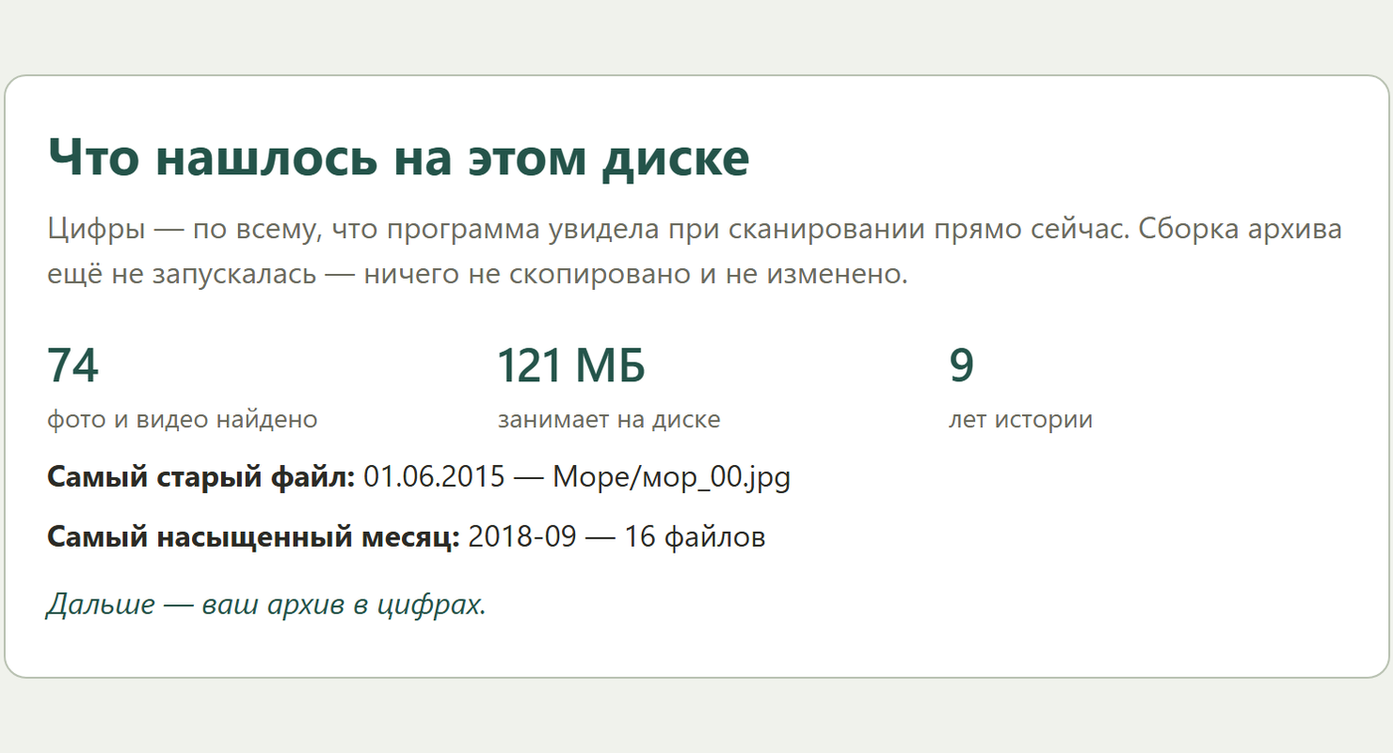
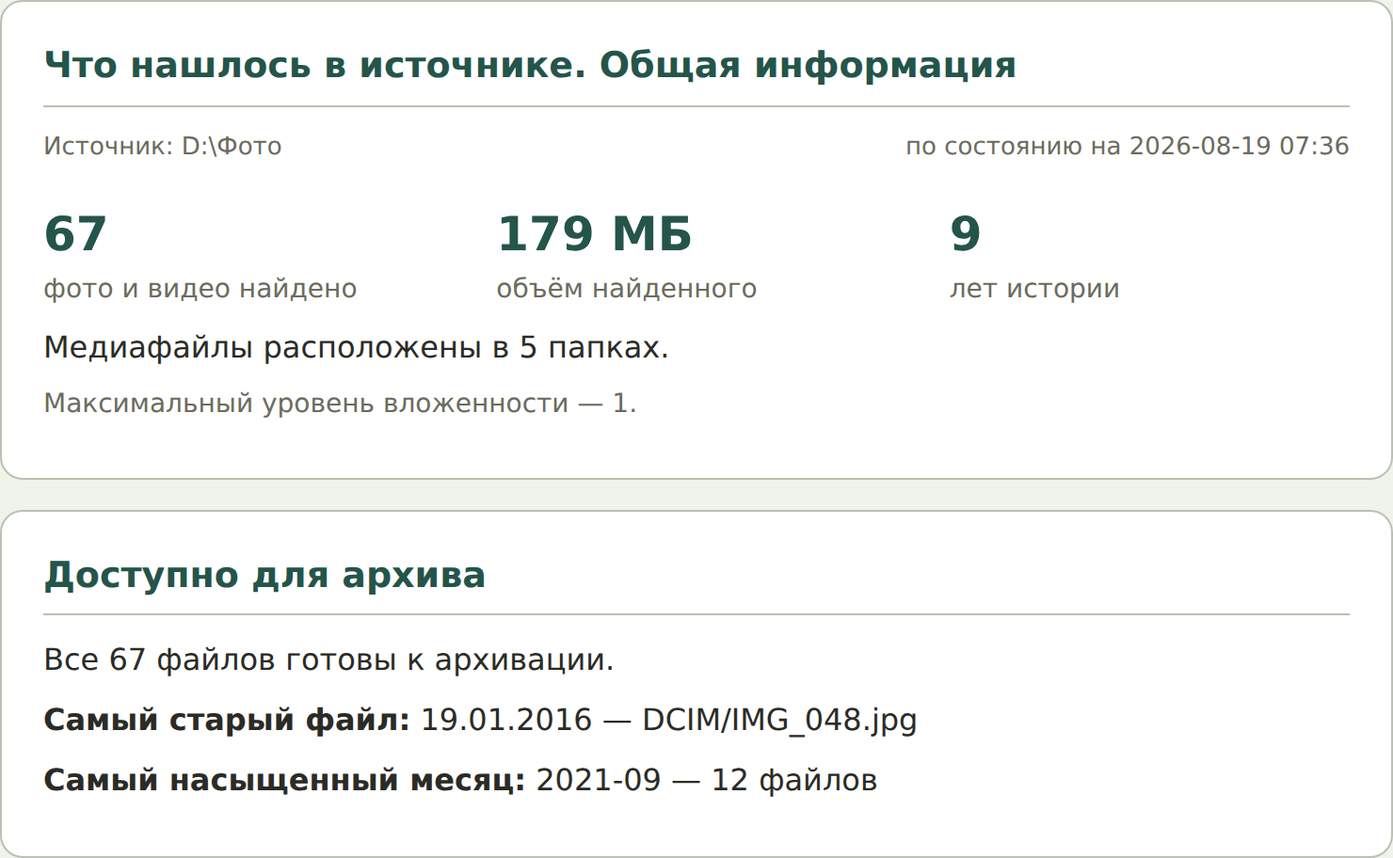
Лендинг: пересобрать пример отчёта, поправить alt-текст и версию на скриншоте меню
Три подтверждённых расхождения с реальным продуктом (найдены докс-ревью перед
релизом, сверка лендинга с исходниками):

- interface.png: баннер "версия 0.2.0" (устарел, сейчас 0.4.2) заменён точечно
  пиксель-в-пиксель тем же шрифтом (переиспользованы глифы из самого же
  изображения) -- само меню на скриншоте уже было верным (4 пункта).
- index.html: alt-текст того же скриншота всё ещё описывал меню из трёх пунктов
  без "Паспорт архива" -- обновлён под реальные 4 пункта.
- report_sanitized.html/report-preview.png (от 2026-08-04) не отражали редизайн
  отчёта 11-18.08 -- пересобраны на актуальном коде: синтетический источник
  (67 файлов, exiftool-теги) прогнан через реальный `photosort_win.py analyze
  --source`, HTML санитизирован (убран локальный путь), превью снято headless
  Chromium. Мимоходом найден и обойдён в демо-данных реальный баг report.py
  (обрезка длинных подписей камер в _svg_hbar_chart() режет с начала строки,
  не с конца -- "NIKON CORPORATION NIKON D750" вылезает за левый край SVG) --
  не исправлен в этом коммите, отдельная находка для report.py.

Claude-Session: https://claude.ai/code/session_01WYHxtTMAgwakTg4wbncGSk

diff --git a/report_sanitized.html b/report_sanitized.html
@@ -22,8 +22,25 @@ body {
 .card { background: #fff; border: 1px solid var(--line); border-radius: 12px; padding: 20px 22px; margin-bottom: 16px; overflow-wrap: anywhere; }
 h1 { color: var(--accent); font-size: 28px; margin: 0 0 6px; }
 h2 { color: var(--accent); font-size: 19px; margin: 0 0 12px; border-bottom: 1px solid var(--line); padding-bottom: 6px; }
+/* Речь пользователя, 2026-08-15: явная приглушённая пометка в заголовках диаграмм, которые
+   технически не могут показать RAW (напр. "(без учёта RAW)") -- 14px, тот же пол, что и
+   .muted/.stat .label ниже (Раздел 7 приёмочного чек-листа уже установил 14px как минимум
+   для аудитории 45-70 лет, мельче не делаем даже здесь). font-weight normal -- отличает её
+   от жирного по умолчанию текста h2, не боремся с ним за внимание. */
+.h2-note { color: var(--muted); font-size: 14px; font-weight: 400; }
 p { margin: 8px 0; }
 .subtitle { color: var(--muted); margin: 0 0 18px; }
+/* Речь пользователя, 2026-08-09: путь(и) SOURCE/TARGET + "по состоянию на ДАТА" -- отдельной
+   строкой ПОД заголовком, не приклеены в текст <h1> (раньше длинная дата в самом заголовке
+   визуально читалась как "увеличенный шрифт" -- по факту шрифт был тем же 28px, просто текст
+   длиннее). Меньше субтитра (13px против обычных 14px .subtitle) -- вспомогательная мета-
+   информация, не основной текст карточки. */
+.report-meta {
+  display: flex; justify-content: space-between; align-items: flex-start; flex-wrap: wrap;
+  gap: 4px 16px; color: var(--muted); font-size: 13px; margin: 0 0 18px; overflow-wrap: anywhere;
+}
+.report-meta-paths { min-width: 0; }
+.report-meta-date { white-space: nowrap; flex-shrink: 0; }
 .stat-row { display: flex; flex-wrap: wrap; gap: 18px 28px; margin-bottom: 6px; }
 .stat { flex: 1 1 140px; min-width: 130px; }
 .stat .value { font-size: 25px; font-weight: 600; color: var(--accent); }
@@ -43,14 +60,23 @@ p { margin: 8px 0; }
 .grid-2, .grid-3 { display: grid; gap: 16px; margin-bottom: 20px; }
 .grid-2 { grid-template-columns: 1fr 1fr; }
 .grid-3 { grid-template-columns: repeat(auto-fit, minmax(220px, 1fr)); }
-.grid-2 .card, .grid-3 .card { margin-bottom: 0; padding: 18px 20px; }
-.grid-2 h2, .grid-3 h2 { font-size: 16px; margin-bottom: 10px; padding-bottom: 6px; }
+/* Речь пользователя, 2026-08-11: отдельный класс ТОЛЬКО для ряда "Топ форматов" (1-3 карточки
+   в зависимости от того, что реально найдено -- фото/видео/RAW) -- .grid-3 общий класс делят с
+   рядом "Тип медиа"/"Объём по категориям"/"Надёжность дат" (ВСЕГДА ровно 3 карточки), тем
+   двум классам нужно разное поведение. Ровно 2 колонки НА ВСЮ ширину ряда (не auto-fit с
+   потолком -- та версия то раздувала карточки почти вдвое при 2 против 3, то наоборот ужимала
+   -- см. историю правок этого класса) -- третья карточка, если есть, переносится на новую
+   строку сама (стандартное поведение grid при фиксированном числе колонок). */
+.grid-3-formats { display: grid; gap: 16px; margin-bottom: 20px;
+                    grid-template-columns: repeat(2, 1fr); }
+.grid-2 .card, .grid-3 .card, .grid-3-formats .card { margin-bottom: 0; padding: 18px 20px; }
+.grid-2 h2, .grid-3 h2, .grid-3-formats h2 { font-size: 16px; margin-bottom: 10px; padding-bottom: 6px; }
 /* Заголовки разной длины ("Тип медиа" — 1 строка, "Итог решений программы" — 2) иначе
    переносятся по-разному и сдвигают сами диаграммы вниз вразнобой — фикс. высота под 2
    строки (line-height 1.5 * font-size 16px) держит диаграммы на одном уровне независимо
    от того, влез заголовок в 1 строку или в 2. */
-.grid-3 h2 { min-height: 3em; }
-.grid-2 .chart-block, .grid-3 .chart-block { gap: 14px; }
+.grid-3 h2, .grid-3-formats h2 { min-height: 3em; }
+.grid-2 .chart-block, .grid-3 .chart-block, .grid-3-formats .chart-block { gap: 14px; }
 .grid-2 .legend, .grid-3 .legend { min-width: 0; }
 @media (max-width: 640px) { .grid-2 { grid-template-columns: 1fr; } }
 .checklist { list-style: none; padding: 0; margin: 0; }
@@ -69,6 +95,19 @@ p { margin: 8px 0; }
 .checklist li.expand > details[open] > summary::before { content: "▾ "; }
 .checklist .nested { margin: 0 0 10px; }
 .checklist .nested li { padding: 8px 0 8px 18px; }
+/* "Полная сверка дублей" (2026-08-08, альбомный редизайн): таблица вместо .checklist для
+   exact-dup/near-dup секций -- тот же .card-контейнер, свой минимальный набор правил. */
+.dedup-table { width: 100%; border-collapse: collapse; font-size: 14px; overflow-wrap: anywhere; }
+.dedup-table th { text-align: left; padding: 8px 10px; border-bottom: 2px solid var(--line); color: var(--muted); }
+.dedup-table td { padding: 8px 10px; border-bottom: 1px solid var(--line); vertical-align: top; }
+.dedup-table tr:last-child td { border-bottom: none; }
+.dedup-table + details { margin-top: 10px; }
+.dedup-table + details > summary {
+  padding: 6px 0; color: var(--accent); font-weight: 600; cursor: pointer; list-style: none;
+}
+.dedup-table + details > summary::-webkit-details-marker { display: none; }
+.dedup-table + details > summary::before { content: "▸ "; }
+.dedup-table + details[open] > summary::before { content: "▾ "; }
 .bridge { color: var(--accent); font-style: italic; margin-top: 12px; }
 .muted { color: var(--muted); font-size: 14px; }
 /* Раздел 7 приёмочного чек-листа: свой цвет #8a8a7c на --bg давал контраст 3.1:1, не
@@ -76,6 +115,14 @@ p { margin: 8px 0; }
    -- заменён на var(--muted), тот же цвет, что и остальной вспомогательный текст (4.79:1 на
    --bg / 5.4:1 на белом фоне карточек -- оба проходят). */
 .footer { text-align: center; color: var(--muted); font-size: 13px; margin: 16px 0 24px; }
+.report-brand {
+  display: flex; align-items: center; justify-content: space-between; flex-wrap: wrap;
+  gap: 6px 16px; margin: 0 0 18px;
+}
+.report-brand-logo { display: block; line-height: 0; }
+.report-brand-logo svg { display: block; height: 28px; width: auto; }
+.report-brand-url { color: var(--muted); font-size: 14px; text-decoration: none; }
+.report-brand-url:hover { text-decoration: underline; }
 /* 4.1/4.3 (PROMPT_report_marketing.md): баннер доверия -- одна строка, не карточка, чтобы не
    раздувать первый экран; чек-лист рядом -- компактный, с нейтральными зелёными отметками. */
 .trust-banner { font-size: 17px; font-weight: 600; color: var(--accent); margin: 4px 0 8px; }
@@ -131,13 +178,24 @@ p { margin: 8px 0; }
   border: 2px solid var(--accent2); border-radius: 8px;
   padding: 10px 16px; margin: 0 0 16px;
 }
+/* Раздел 1 "Что скопировано" (PROMPT_report_run_redesign.md, Промпт 1/3): кнопка
+   "Детализированный отчёт" -- нет готового .btn-класса в отчёте (все прежние действия --
+   обычные <a>, см. _render_cta_block()), кнопка добавлена намеренно НЕактивной (детализация
+   -- отдельная будущая задача, эта заглушка её не подразумевает как "скоро"). */
+.btn {
+  display: inline-block; padding: 10px 18px; border-radius: 8px; border: none;
+  background: var(--accent); color: #fff; font-size: 14px; font-weight: 600;
+  font-family: inherit; cursor: pointer;
+}
+.btn[disabled] { background: var(--line); color: var(--muted); cursor: not-allowed; }
 @media print { body { background: #fff; } .card { break-inside: avoid; } }
 </style>
 </head>
 <body>
 <div class="sheet">
-<p class="trust-banner">Оригиналы не изменены и не удалены — программа работает только с копиями.</p><ul class="trust-list"><li>Файлы не удалялись.</li><li>Оригиналы сохранены на своих местах.</li><li>Реальных изменений на диске нет — это предпросмотр.</li></ul><div class="card"><h1>Что нашлось на этом диске</h1><p class="subtitle">Цифры — по всему, что программа увидела при сканировании прямо сейчас. Сборка архива ещё не запускалась — ничего не скопировано и не изменено.</p><div class="stat-row"><div class="stat"><div class="value">74</div><div class="label">фото и видео найдено</div></div><div class="stat"><div class="value">121 МБ</div><div class="label">занимает на диске</div></div><div class="stat"><div class="value">9</div><div class="label">лет истории</div></div></div><p><b>Самый старый файл:</b> 01.06.2015 — Море/мор_00.jpg</p><p><b>Самый насыщенный месяц:</b> 2018-09 — 16 файлов</p><p class="bridge">Дальше — ваш архив в цифрах.</p></div><div class="card"><h2>Медиафайлы по годам</h2><svg viewBox="0 0 680 278" width="100%" height="278" role="img" aria-label="Медиафайлы по годам"><text x="46" y="23.0" font-size="12" text-anchor="end" fill="#2B2B26">2015</text><rect x="54" y="8.0" width="558.0" height="22" fill="#24544A" rx="3"/><text x="618.0" y="23.0" font-size="12" fill="#6B6B5E">16 файлов</text><text x="46" y="53.0" font-size="12" text-anchor="end" fill="#2B2B26">2016</text><rect x="54" y="38.0" width="174.4" height="22" fill="#24544A" rx="3"/><text x="234.4" y="53.0" font-size="12" fill="#6B6B5E">5 файлов</text><text x="46" y="83.0" font-size="12" text-anchor="end" fill="#2B2B26">2017</text><text x="60.0" y="83.0" font-size="12" fill="#6B6B5E">0 файлов</text><text x="46" y="113.0" font-size="12" text-anchor="end" fill="#2B2B26">2018</text><rect x="54" y="98.0" width="558.0" height="22" fill="#24544A" rx="3"/><text x="618.0" y="113.0" font-size="12" fill="#6B6B5E">16 файлов</text><text x="46" y="143.0" font-size="12" text-anchor="end" fill="#2B2B26">2019</text><text x="60.0" y="143.0" font-size="12" fill="#6B6B5E">0 файлов</text><text x="46" y="173.0" font-size="12" text-anchor="end" fill="#2B2B26">2020</text><text x="60.0" y="173.0" font-size="12" fill="#6B6B5E">0 файлов</text><text x="46" y="203.0" font-size="12" text-anchor="end" fill="#2B2B26">2021</text><rect x="54" y="188.0" width="558.0" height="22" fill="#24544A" rx="3"/><text x="618.0" y="203.0" font-size="12" fill="#6B6B5E">16 файлов</text><text x="46" y="233.0" font-size="12" text-anchor="end" fill="#2B2B26">2022</text><rect x="54" y="218.0" width="174.4" height="22" fill="#24544A" rx="3"/><text x="234.4" y="233.0" font-size="12" fill="#6B6B5E">5 файлов</text><text x="46" y="263.0" font-size="12" text-anchor="end" fill="#2B2B26">2023</text><rect x="54" y="248.0" width="558.0" height="22" fill="#24544A" rx="3"/><text x="618.0" y="263.0" font-size="12" fill="#6B6B5E">16 файлов</text></svg><p class="muted">Похоже, за 2017 год сохранилось заметно меньше снимков, чем за соседние годы — возможно, часть этих воспоминаний ждёт на другом диске или карте памяти.</p></div><div class="grid-3"><div class="card"><h2>Тип медиа</h2><div class="chart-block"><svg viewBox="0 0 170 170" width="170" height="170" role="img" aria-label="Диаграмма"><circle cx="85.0" cy="85.0" r="84.00" fill="#24544A" stroke="#fff" stroke-width="1.5"/></svg><div class="legend"><div class="legend-row"><span class="swatch" style="background:#24544A"></span>Фото — 74 файла (100%)</div></div></div></div><div class="card"><h2>Итог решений программы</h2><div class="chart-block"><svg viewBox="0 0 170 170" width="170" height="170" role="img" aria-label="Диаграмма"><path d="M85.00,85.00 L85.00,1.00 A84.00,84.00 0 1 1 32.23,19.64 Z" fill="#24544A" stroke="#fff" stroke-width="1.5"/><path d="M85.00,85.00 L32.23,19.64 A84.00,84.00 0 0 1 57.02,5.80 Z" fill="#A85A2A" stroke="#fff" stroke-width="1.5"/><path d="M85.00,85.00 L57.02,5.80 A84.00,84.00 0 0 1 85.00,1.00 Z" fill="#6E8C74" stroke="#fff" stroke-width="1.5"/></svg><div class="legend"><div class="legend-row"><span class="swatch" style="background:#24544A"></span>Новые файлы — 66 файлов (89%)</div><div class="legend-row"><span class="swatch" style="background:#A85A2A"></span>Дубли — 4 файла (5%)</div><div class="legend-row"><span class="swatch" style="background:#6E8C74"></span>Похожие кадры сохранены — 4 файла (5%)</div></div></div></div><div class="card"><h2>Надёжность дат — фото и видео, без RAW</h2><div class="chart-block"><svg viewBox="0 0 170 170" width="170" height="170" role="img" aria-label="Диаграмма"><path d="M85.00,85.00 L85.00,1.00 A84.00,84.00 0 1 1 57.02,5.80 Z" fill="#24544A" stroke="#fff" stroke-width="1.5"/><path d="M85.00,85.00 L57.02,5.80 A84.00,84.00 0 0 1 85.00,1.00 Z" fill="#6E8C74" stroke="#fff" stroke-width="1.5"/></svg><div class="legend"><div class="legend-row"><span class="swatch" style="background:#24544A"></span>Точная (EXIF) — 70 файлов (95%)</div><div class="legend-row"><span class="swatch" style="background:#6E8C74"></span>Оценочная — 4 файла (5%)</div></div></div></div></div><div class="card"><h2>География</h2><p class="muted"><b>По вашим местам</b></p><svg viewBox="0 0 680 68" width="100%" height="68" role="img" aria-label="География — свои места"><text x="162" y="23.0" font-size="12" text-anchor="end" fill="#2B2B26">Skhodnya</text><rect x="170" y="8" width="440.0" height="22" fill="#24544A" rx="3"/><text x="616.0" y="23.0" font-size="12" fill="#6B6B5E">15 файлов</text><text x="162" y="53.0" font-size="12" text-anchor="end" fill="#2B2B26">Moscow</text><rect x="170" y="38" width="440.0" height="22" fill="#24544A" rx="3"/><text x="616.0" y="53.0" font-size="12" fill="#6B6B5E">15 файлов</text></svg><p class="muted"><b>Остальной мир</b></p><svg viewBox="0 0 680 38" width="100%" height="38" role="img" aria-label="География — остальной мир"><text x="162" y="23.0" font-size="12" text-anchor="end" fill="#2B2B26">Франция</text><rect x="170" y="8" width="440.0" height="22" fill="#A85A2A" rx="3"/><text x="616.0" y="23.0" font-size="12" fill="#6B6B5E">15 файлов</text></svg></div><div class="card"><h2>Топ камер/устройств съёмки</h2><svg viewBox="0 0 680 128" width="100%" height="128" role="img" aria-label="Топ камер/устройств съёмки"><text x="162" y="23.0" font-size="12" text-anchor="end" fill="#2B2B26">Apple iPhone 13</text><rect x="170" y="8" width="440.0" height="22" fill="#24544A" rx="3"/><text x="616.0" y="23.0" font-size="12" fill="#6B6B5E">25 файлов</text><text x="162" y="53.0" font-size="12" text-anchor="end" fill="#2B2B26">Canon EOS R6</text><rect x="170" y="38" width="264.0" height="22" fill="#24544A" rx="3"/><text x="440.0" y="53.0" font-size="12" fill="#6B6B5E">15 файлов</text><text x="162" y="83.0" font-size="12" text-anchor="end" fill="#2B2B26">Canon EOS 80D</text><rect x="170" y="68" width="264.0" height="22" fill="#24544A" rx="3"/><text x="440.0" y="83.0" font-size="12" fill="#6B6B5E">15 файлов</text><text x="162" y="113.0" font-size="12" text-anchor="end" fill="#2B2B26">Nikon D750</text><rect x="170" y="98" width="264.0" height="22" fill="#24544A" rx="3"/><text x="440.0" y="113.0" font-size="12" fill="#6B6B5E">15 файлов</text></svg></div><div class="card"><h2>Что стоит проверить</h2><ul class="checklist"><li><div class="title">Похожие кадры — выбор необязателен</div><div class="detail">Все кадры уже сохранены, ничего не сломается, если оставить как есть — разбор ниже просто для удобства, не для того, чтобы что-то доделать.</div></li><li><div class="title">Похожая серия из 2 кадров</div><div class="detail">Стоит вручную выбрать лучший: Дача/дач_13.jpg, Дача/дач_13_near.jpg</div></li><li><div class="title">Похожая серия из 2 кадров</div><div class="detail">Стоит вручную выбрать лучший: Море/мор_13.jpg, Море/мор_13_near.jpg</div></li><li class="expand"><details><summary>Показать ещё 2 похожие серии</summary><ul class="checklist nested"><li><div class="title">Похожая серия из 2 кадров</div><div class="detail">Стоит вручную выбрать лучший: Природа/при_13.jpg, Природа/при_13_near.jpg</div></li><li><div class="title">Похожая серия из 2 кадров</div><div class="detail">Стоит вручную выбрать лучший: Свадьба/сва_13.jpg, Свадьба/сва_13_near.jpg</div></li></ul></details></li><li><div class="title">4 файла получили дату приблизительно</div><div class="detail">Стоит перепроверить при желании.</div></li></ul></div><div class="card"><h2>Рекомендации</h2><ul class="checklist"><li><div class="title">Архиву потребуется примерно 121 МБ</div><div class="detail">Проверьте, что на диске назначения есть столько свободного места.</div></li><li><div class="title">За 2017 год сохранилось заметно меньше снимков, чем за соседние годы</div><div class="detail">Если есть ещё карта памяти или диск за этот период — стоит проанализировать и его перед реальной сборкой.</div></li><li><div class="title">Уже сейчас видно 4 серии похожих кадров</div><div class="detail">При сборке ни один из них не удалится — программа сохраняет оба варианта, если сомневается.</div></li><li><div class="title">У 4 файла дата определена приблизительно</div><div class="detail">При сборке они всё равно попадут в архив.</div></li></ul></div><div class="card"><p class="muted">9 лет и 121 МБ памяти сейчас хранятся на одном источнике. Сборка архива — только первый шаг: после неё стоит сделать резервную копию уже собранного архива на другом носителе, чтобы воспоминания не зависели от одного диска.</p></div>
-<div class="footer">Сформировано PhotoArchive · 2026-08-03 23:06</div>
+<div class="report-brand"><a class="report-brand-logo" href="https://vo1012.github.io/PhotoArchive/" aria-label="PhotoArchive — сайт программы"><svg role="img" aria-label="PhotoArchive" xmlns="http://www.w3.org/2000/svg" viewBox="69 247 1240 245"><path fill="#24544A" d="M217.766 257.515C236.668 256.396 238.047 272.721 238.552 287.131C231.295 289.414 222.083 291.346 214.616 292.865C214.538 290.824 214.555 286.886 213.662 285.2C212.831 283.668 211.372 282.574 209.668 282.206C205.701 281.365 112.207 305.655 105.91 309.695C104.723 311.245 103.509 315.064 103.465 316.951C102.711 349.347 101.528 382.191 102.714 414.591C103.149 426.483 104.16 429.815 115.601 433.284C133.974 438.855 152.785 443.171 171.328 448.17C183.083 450.788 195.518 456.839 207.4 457.926C217.287 458.831 214.725 441.448 214.41 435.933C201.162 433.052 160.331 425.436 151.118 420.448C148.915 419.256 148.047 418.238 147.354 415.796C146.482 412.72 146.11 409.421 145.941 406.232C145.422 396.432 144.595 324.48 147.313 320.102C149.67 316.305 154.326 314.033 158.329 312.474C170.903 307.576 185.193 305.436 198.318 302.301L268.24 285.099C277.053 282.65 296.386 275.367 303.201 283.235C306.782 293.822 305.573 319.941 305.562 332.33L305.469 396.996C305.46 412.997 306.233 429.641 305.054 445.492C304.127 457.95 283.7 452.149 276.601 450.579C263.765 447.741 251.086 444.3 238.423 440.979C238.533 449.781 240.061 466.306 235.521 473.788C230.948 481.327 221.927 483.604 213.659 481.402C174.472 470.962 135.43 459.921 96.3845 448.98C76.6695 443.456 79.1011 425.03 79.2176 408.863L79.4179 376.099L79.209 335.907C79.1305 323.293 76.4228 295.711 90.9296 289.864C97.1259 287.366 106.644 285.091 113.247 283.371L152.45 273.512C170.698 268.955 200.094 260.41 217.766 257.515ZM165.376 329.188C163.169 345.182 164.353 383.218 164.593 400.712C177.518 388.249 190.368 375.708 203.142 363.092C206.995 363.449 223.685 381.015 227.627 384.91L237.753 375.481C254.271 390.714 270.355 406.329 287.01 421.484L286.997 349.256C287.019 341.907 288.4 303.683 285.215 299.646C283.351 298.68 282.578 298.915 280.479 299.045L210.386 316.64C199.416 319.359 174.614 324.929 165.376 329.188ZM210.071 401.359L216.091 395.631C218.012 393.899 220.44 391.583 222.405 390.009C217.733 385.402 211.041 378.419 206.008 374.602C207.333 382.991 209.154 393.052 210.071 401.359Z"/><path fill="#24544A" d="M249.721 324.857C258.677 323.037 267.412 328.822 269.234 337.778C271.055 346.733 265.273 355.471 256.318 357.294C247.361 359.118 238.621 353.333 236.799 344.375C234.977 335.417 240.763 326.678 249.721 324.857Z"/><path fill="#24544A" d="M427.039 316.155L427.514 316.136C450.662 315.29 480.502 314.655 487.21 342.958C487.773 345.336 488.041 347.947 488.077 350.388C488.307 359.814 484.741 368.937 478.181 375.708C465.818 388.296 448.734 386.692 432.52 386.683L426.459 386.657L426.554 421.313L406.485 421.295L406.393 316.477L427.039 316.155ZM426.567 369.687C439.205 369.809 451.881 371.394 462.644 364.333C468.66 356.488 470.512 345.544 461.812 338.791C453.811 332.58 436.309 333.758 426.553 334.306L426.567 369.687Z"/><path fill="#24544A" d="M613.719 345.677C635.34 343.179 654.952 358.53 657.72 380.119C660.489 401.709 645.385 421.512 623.833 424.551C609.65 426.55 595.487 420.766 586.758 409.409C578.029 398.052 576.083 382.877 581.664 369.685C587.245 356.492 599.49 347.321 613.719 345.677ZM622.523 406.818C634.38 404.478 642.094 392.969 639.755 381.111C637.416 369.254 625.909 361.538 614.052 363.876C602.193 366.214 594.476 377.724 596.816 389.583C599.155 401.442 610.665 409.159 622.523 406.818Z"/><path fill="#24544A" d="M750.441 346.263C772.043 343.238 791.981 358.369 794.882 379.989C797.783 401.609 782.538 421.461 760.903 424.237C739.443 426.992 719.788 411.897 716.911 390.452C714.033 369.006 729.014 349.263 750.441 346.263ZM758.877 406.512C770.6 404.849 778.778 394.03 777.181 382.297C775.583 370.564 764.81 362.325 753.069 363.857C741.236 365.401 732.917 376.279 734.527 388.105C736.138 399.931 747.061 408.188 758.877 406.512Z"/><path fill="#A85A2A" d="M858.662 316.135L867.39 316.102C871.238 323.63 874.81 332.871 877.974 340.729C888.852 367.749 901.137 394.384 911.879 421.439C905.115 421.499 898.35 421.514 891.586 421.486C879.963 394.318 869.01 366.556 857.235 339.676C845.434 365.82 834.567 394.604 822.809 421.38L802.296 421.329C817.594 386.444 832.63 351.445 847.403 316.335L858.662 316.135Z"/><path fill="#24544A" d="M495.912 316.488L514.568 316.506C514.907 329.734 514.667 344.021 514.698 357.335C522.547 350.397 528.457 346.861 539.155 346.582C565.716 345.892 566.06 370.174 565.791 389.949C565.649 400.37 565.621 410.945 565.51 421.274L546.952 421.28L546.975 393.911C547.052 382.694 549.16 363.917 532.988 363.837C527.945 363.798 523.092 365.766 519.501 369.307C511.801 377.035 514.538 408.713 514.477 421.299L495.871 421.356L495.912 316.488Z"/><path fill="#A85A2A" d="M1257.09 347.53C1259.27 347.346 1261.46 347.228 1263.65 347.177C1290.08 346.49 1298.83 367.857 1299.37 390.455L1245.11 390.51C1251.97 412.543 1268.65 412.433 1285.44 400.324L1296.19 410.916C1273.34 430.63 1239.32 428.953 1229.09 397.822C1225.74 387.694 1226.63 376.645 1231.54 367.177C1237.2 356.33 1245.84 351.006 1257.09 347.53ZM1245.08 377.871L1269.21 377.766L1282.09 377.704C1276.7 364.956 1272.95 361.146 1258.37 362.291C1250.48 366.368 1248.11 369.365 1245.08 377.871Z"/><path fill="#A85A2A" d="M1040.68 316.469L1058.71 316.426L1058.86 357.01C1069.76 346.625 1089.23 341.476 1099.96 353.084C1112.13 366.256 1108.11 404.142 1107.96 421.315L1090.48 421.337L1090.42 392.708L1090.43 391.884C1090.52 385.035 1090.64 369.628 1085.73 366.979C1065.07 355.823 1056.88 373.247 1058.02 390.707C1058.76 402 1058.1 412.598 1058.15 421.307L1040.76 421.365C1040.52 386.4 1040.49 351.434 1040.68 316.469Z"/><path fill="#A85A2A" d="M328.581 295.646C339.189 295.431 341.166 299.229 341.175 309.705C341.214 352.095 341.962 394.73 340.891 437.082C340.825 439.693 336.68 442.401 334.62 443.767C324.059 444.523 322.032 439.624 321.909 430.032C321.443 393.689 321.619 357.312 321.555 320.964C321.545 315.13 321.609 309.034 322.283 303.253C322.728 299.496 325.776 297.607 328.581 295.646Z"/><path fill="#A85A2A" d="M1147.39 348.717L1166.82 348.613C1173.54 363.377 1181.21 384.713 1187.31 400.225C1194.06 387.299 1202.98 363.129 1208.73 348.762L1227.94 348.746L1221.17 364.681C1213.35 383.677 1205.22 402.542 1196.77 421.267L1178.4 421.329C1167.78 397.824 1157.51 372.57 1147.39 348.717Z"/><path fill="#24544A" d="M674.568 330.086L693.307 330.108L693.386 348.805L712.371 348.739C712.574 353.858 712.447 359.509 712.428 364.677C706.047 364.566 699.666 364.543 693.285 364.607C693.326 373.52 692.823 382.432 692.717 391.347C692.661 396.066 692.949 401.778 697.349 404.628C701.959 407.614 706.993 405.927 711.941 404.883L712.236 414.247L712.328 414.856C714.55 429.997 684.149 423.191 680.101 417.45C672.034 406.012 674.371 378.28 674.528 364.835L663.314 364.699L663.191 348.836L674.6 348.699L674.568 330.086Z"/><path fill="#A85A2A" d="M1000.92 346.925C1013.3 344.942 1022.93 351.82 1031.63 359.396C1027.97 363.176 1024.33 367.435 1020.83 371.4C1018.88 369.818 1016.92 368.299 1014.89 366.823C998.87 355.188 979.398 373.255 983.968 390.756C985.628 397.111 988.237 401.443 993.798 405.207C1002.99 411.428 1012.52 404.445 1020.95 400.736C1021.37 400.555 1022.54 401.585 1023.05 401.951C1025.74 404.981 1029.03 408.001 1031.98 410.83C1025.1 417.3 1019.01 421.784 1009.28 423.33C999.111 425.018 988.691 422.542 980.368 416.46C953.289 396.305 963.683 351.79 1000.92 346.925Z"/><path fill="#B9C2B2" d="M361.379 315.244C362.919 315.41 364.427 315.796 365.858 316.389C367.896 317.211 369.569 318.625 370.326 320.733C372.557 326.942 372.39 417.383 369.762 422.168C368.36 424.72 365.026 425.34 362.448 425.945C361.275 425.831 360.151 425.546 359.027 425.196C357.226 424.634 355.268 423.55 354.454 421.752C352.396 417.206 352.257 326.757 354.367 321.013C355.564 317.756 358.447 316.528 361.379 315.244Z"/><path fill="#A85A2A" d="M951.301 348.192C954.892 347.998 959.374 348.103 963.036 348.087C962.942 353.937 962.918 359.787 962.965 365.637C926.995 361.205 936.811 395.762 936.381 421.412L926.012 421.468C923.601 421.505 920.912 421.773 918.716 420.91C918.057 415.491 918.418 401.364 918.422 395.359L918.296 348.739L935.904 348.691L935.987 356.72C941.481 351.425 943.899 349.838 951.301 348.192Z"/><path fill="#A85A2A" d="M1122.01 348.726L1140.22 348.623L1140.18 421.339L1122.09 421.385C1122.33 397.357 1122.04 372.798 1122.01 348.726Z"/><path fill="#24544A" d="M853.487 379.306C857.953 378.08 862.734 379.352 866.001 382.635C869.267 385.918 870.515 390.706 869.266 395.166C868.017 399.626 864.466 403.069 859.969 404.179C853.141 405.864 846.227 401.748 844.453 394.942C842.68 388.136 846.705 381.168 853.487 379.306Z"/><path fill="#24544A" d="M1128.97 312.835C1135.72 311.203 1142.52 315.317 1144.21 322.052C1145.89 328.787 1141.84 335.623 1135.12 337.367C1128.32 339.132 1121.38 335.016 1119.67 328.202C1117.97 321.387 1122.14 314.487 1128.97 312.835Z"/></svg></a><a class="report-brand-url" href="https://vo1012.github.io/PhotoArchive/">vo1012.github.io/PhotoArchive</a></div>
+<p class="trust-banner">Оригиналы не изменены и не удалены — программа работает только с копиями.</p><ul class="trust-list"><li>Реальных изменений на диске нет — это предпросмотр.</li></ul><div class="card"><h2>Что нашлось в источнике. Общая информация</h2><div class="report-meta"><div class="report-meta-paths">Источник: D:\Фото</div><div class="report-meta-date">по состоянию на 2026-08-19 07:36</div></div><div class="stat-row"><div class="stat"><div class="value">67</div><div class="label">фото и видео найдено</div></div><div class="stat"><div class="value">179 МБ</div><div class="label">объём найденного</div></div><div class="stat"><div class="value">9</div><div class="label">лет истории</div></div></div><p>Медиафайлы расположены в 5 папках.</p><p class="muted">Максимальный уровень вложенности — 1.</p></div><div class="card"><h2>Доступно для архива</h2><p>Все 67 файлов готовы к архивации.</p><p><b>Самый старый файл:</b> 19.01.2016 — DCIM/IMG_048.jpg</p><p><b>Самый насыщенный месяц:</b> 2021-09 — 12 файлов</p></div><div class="grid-3"><div class="card"><h2>Тип медиа</h2><div class="chart-block"><svg viewBox="0 0 170 170" width="170" height="170" role="img" aria-label="Диаграмма"><circle cx="85.0" cy="85.0" r="84.00" fill="#24544A" stroke="#fff" stroke-width="1.5"/></svg><div class="legend"><div class="legend-row"><span class="swatch" style="background:#24544A"></span>Фото — 67 файлов (100%)</div></div></div></div><div class="card"><h2>Объём по категориям</h2><div class="chart-block"><svg viewBox="0 0 170 170" width="170" height="170" role="img" aria-label="Диаграмма"><circle cx="85.0" cy="85.0" r="84.00" fill="#24544A" stroke="#fff" stroke-width="1.5"/></svg><div class="legend"><div class="legend-row"><span class="swatch" style="background:#24544A"></span>Фото — 179 МБ (100%)</div></div></div></div><div class="card"><h2>Надёжность дат — фото и видео <span class="h2-note">(без RAW)</span></h2><div class="chart-block"><svg viewBox="0 0 170 170" width="170" height="170" role="img" aria-label="Диаграмма"><path d="M85.00,85.00 L85.00,1.00 A84.00,84.00 0 1 1 77.13,1.37 Z" fill="#24544A" stroke="#fff" stroke-width="1.5"/><path d="M85.00,85.00 L77.13,1.37 A84.00,84.00 0 0 1 85.00,1.00 Z" fill="#6E8C74" stroke="#fff" stroke-width="1.5"/></svg><div class="legend"><div class="legend-row"><span class="swatch" style="background:#24544A"></span>Точная (EXIF) — 66 файлов (99%)</div><div class="legend-row"><span class="swatch" style="background:#6E8C74"></span>Оценочная — 1 файл (1%)</div></div></div></div></div><div class="grid-3-formats"><div class="card"><h2>Топ форматов — фото</h2><svg viewBox="0 0 300 38" width="100%" height="38" role="img" aria-label="Топ форматов"><text x="82" y="23.0" font-size="12" text-anchor="end" fill="#2B2B26">JPG</text><rect x="90" y="8" width="140.0" height="22" fill="#24544A" rx="3"/><text x="236.0" y="23.0" font-size="12" fill="#6B6B5E">67 файлов</text></svg></div></div><div class="card"><h2>Медиафайлы по годам — фото и видео <span class="h2-note">(без учёта RAW)</span></h2><p class="muted"><span style="color:#24544A">■</span> фото &nbsp; <span style="color:#A85A2A">■</span> видео</p><svg viewBox="0 0 680 278" width="100%" height="278" role="img" aria-label="Медиафайлы по годам, фото и видео раздельно"><text x="46" y="23.0" font-size="12" text-anchor="end" fill="#2B2B26">2016</text><rect x="54" y="8.0" width="165.0" height="10.0" fill="#24544A" rx="2"/><text x="225.0" y="15.5" font-size="11" fill="#6B6B5E">6 файлов</text><text x="46" y="53.0" font-size="12" text-anchor="end" fill="#2B2B26">2017</text><rect x="54" y="38.0" width="82.5" height="10.0" fill="#24544A" rx="2"/><text x="142.5" y="45.5" font-size="11" fill="#6B6B5E">3 файла</text><text x="46" y="83.0" font-size="12" text-anchor="end" fill="#2B2B26">2018</text><rect x="54" y="68.0" width="220.0" height="10.0" fill="#24544A" rx="2"/><text x="280.0" y="75.5" font-size="11" fill="#6B6B5E">8 файлов</text><text x="46" y="113.0" font-size="12" text-anchor="end" fill="#2B2B26">2019</text><rect x="54" y="98.0" width="302.5" height="10.0" fill="#24544A" rx="2"/><text x="362.5" y="105.5" font-size="11" fill="#6B6B5E">11 файлов</text><text x="46" y="143.0" font-size="12" text-anchor="end" fill="#2B2B26">2020</text><rect x="54" y="128.0" width="110.0" height="10.0" fill="#24544A" rx="2"/><text x="170.0" y="135.5" font-size="11" fill="#6B6B5E">4 файла</text><text x="46" y="173.0" font-size="12" text-anchor="end" fill="#2B2B26">2021</text><rect x="54" y="158.0" width="330.0" height="10.0" fill="#24544A" rx="2"/><text x="390.0" y="165.5" font-size="11" fill="#6B6B5E">12 файлов</text><text x="46" y="203.0" font-size="12" text-anchor="end" fill="#2B2B26">2022</text><rect x="54" y="188.0" width="82.5" height="10.0" fill="#24544A" rx="2"/><text x="142.5" y="195.5" font-size="11" fill="#6B6B5E">3 файла</text><text x="46" y="233.0" font-size="12" text-anchor="end" fill="#2B2B26">2023</text><rect x="54" y="218.0" width="467.5" height="10.0" fill="#24544A" rx="2"/><text x="527.5" y="225.5" font-size="11" fill="#6B6B5E">17 файлов</text><text x="46" y="263.0" font-size="12" text-anchor="end" fill="#2B2B26">2024</text><rect x="54" y="248.0" width="82.5" height="10.0" fill="#24544A" rx="2"/><text x="142.5" y="255.5" font-size="11" fill="#6B6B5E">3 файла</text></svg></div><div class="card"><h2>География</h2><p class="muted"><b>По вашим местам</b></p><svg viewBox="0 0 680 68" width="100%" height="68" role="img" aria-label="География — свои места"><text x="162" y="23.0" font-size="12" text-anchor="end" fill="#2B2B26">Moscow</text><rect x="170" y="8" width="440.0" height="22" fill="#24544A" rx="3"/><text x="616.0" y="23.0" font-size="12" fill="#6B6B5E">43 файла</text><text x="162" y="53.0" font-size="12" text-anchor="end" fill="#2B2B26">Sochi</text><rect x="170" y="38" width="204.7" height="22" fill="#24544A" rx="3"/><text x="380.7" y="53.0" font-size="12" fill="#6B6B5E">20 файлов</text></svg><p class="muted"><b>Остальной мир</b></p><svg viewBox="0 0 680 38" width="100%" height="38" role="img" aria-label="География — остальной мир"><text x="162" y="23.0" font-size="12" text-anchor="end" fill="#2B2B26">Франция</text><rect x="170" y="8" width="30.7" height="22" fill="#A85A2A" rx="3"/><text x="206.7" y="23.0" font-size="12" fill="#6B6B5E">3 файла</text></svg></div><div class="card"><h2>Топ камер/устройств съёмки</h2><svg viewBox="0 0 680 128" width="100%" height="128" role="img" aria-label="Топ камер/устройств съёмки"><text x="162" y="23.0" font-size="12" text-anchor="end" fill="#2B2B26">Apple iPhone 13</text><rect x="170" y="8" width="440.0" height="22" fill="#24544A" rx="3"/><text x="616.0" y="23.0" font-size="12" fill="#6B6B5E">19 файлов</text><text x="162" y="53.0" font-size="12" text-anchor="end" fill="#2B2B26">Canon EOS R6</text><rect x="170" y="38" width="416.8" height="22" fill="#24544A" rx="3"/><text x="592.8" y="53.0" font-size="12" fill="#6B6B5E">18 файлов</text><text x="162" y="83.0" font-size="12" text-anchor="end" fill="#2B2B26">NIKON CORPORATION D750</text><rect x="170" y="68" width="370.5" height="22" fill="#24544A" rx="3"/><text x="546.5" y="83.0" font-size="12" fill="#6B6B5E">16 файлов</text><text x="162" y="113.0" font-size="12" text-anchor="end" fill="#2B2B26">Canon EOS 80D</text><rect x="170" y="98" width="324.2" height="22" fill="#24544A" rx="3"/><text x="500.2" y="113.0" font-size="12" fill="#6B6B5E">14 файлов</text></svg></div><div class="card"><h2>Структура источника</h2><p class="subtitle">Как сейчас реально разложены файлы в источнике — не то, куда программа их поместит при сборке архива (см. «Структура архива» в паспорте после сборки). Архивы показаны такими же ветками, что и папки.</p><p class="muted">Числа рядом с каждой папкой/архивом — количество фото/видео/RAW-файлов (например, «1/3/0» — 1 фото, 3 видео, 0 RAW).</p><ul class="tree"><li><span class="tree-ico"></span><span class="tree-name">D:\Фото</span><ul><li><span class="tree-ico"></span><span class="tree-name">DCIM</span><span class="tree-stat">20/0/0 файлов</span></li><li><span class="tree-ico"></span><span class="tree-name">Дача</span><span class="tree-stat">10/0/0 файлов</span></li><li><span class="tree-ico"></span><span class="tree-name">Море</span><span class="tree-stat">16/0/0 файлов</span></li><li><span class="tree-ico"></span><span class="tree-name">Природа</span><span class="tree-stat">10/0/0 файлов</span></li><li><span class="tree-ico"></span><span class="tree-name">Свадьба</span><span class="tree-stat">11/0/0 файлов</span></li></ul></li></ul></div><div class="card"><h2>Что стоит проверить и рекомендации</h2><ul class="checklist"><li><div class="title">1 файл — дата определена неточно или не определена вовсе</div><div class="detail">Не проблема для дальнейшей обработки — эти файлы всё равно будут сохранены в архиве корректно. Влияет только на автоматическую сортировку по дате (в какую папку ByDate/ГГГГ-ММ они попадут).<br>Разбивка:<br>1 файл — оценочно, по соседним файлам в папке</div></li></ul></div>
+<div class="footer">Сформировано PhotoArchive 0.4.2 · 2026-08-19 07:36</div>
 </div>
 </body>
 </html>

diff --git a/index.html b/index.html
@@ -192,7 +192,7 @@
         <figure class="media-figure plaque">
           <div class="win-label" aria-hidden="true">PhotoArchive.exe</div>
           <img src="assets/img/interface.png" width="1200" height="909" loading="lazy"
-               alt="Стартовое окно PhotoArchive: тёмная консоль с меню из трёх пунктов — сканирование, пробный прогон, сборка архива.">
+               alt="Стартовое окно PhotoArchive: тёмная консоль с меню из четырёх пунктов — сканирование, пробный прогон, сборка архива, паспорт архива.">
         </figure>
       </div>
 
@@ -324,7 +324,7 @@
         <figure class="media-figure plaque report-plaque">
           <div class="win-label" aria-hidden="true">report.html</div>
           <div class="report-clip">
-            <img src="assets/img/report-preview.png" width="740" height="400" loading="lazy"
+            <img src="assets/img/report-preview.png" width="740" height="456" loading="lazy"
                  alt="Пример итогового отчёта PhotoArchive с общей статистикой архива.">
           </div>
           <a class="btn btn-secondary btn-sm report-open" href="report_sanitized.html" target="_blank" rel="noopener">Открыть пример отчёта</a>
